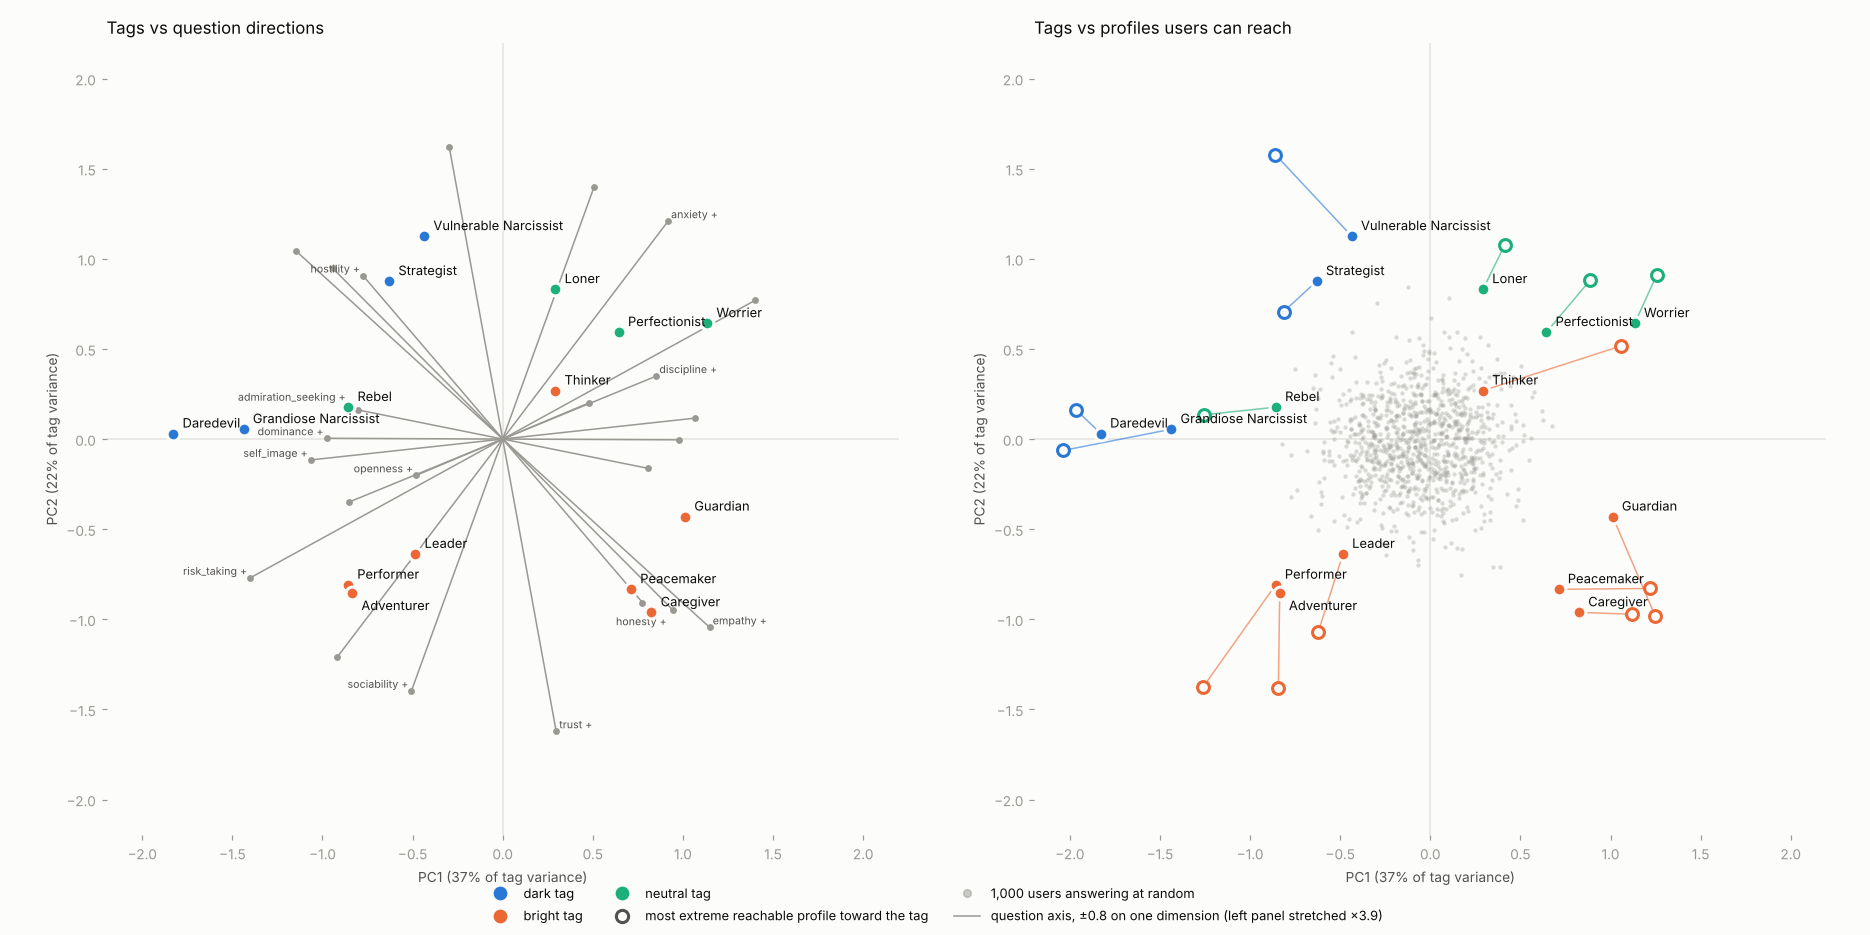
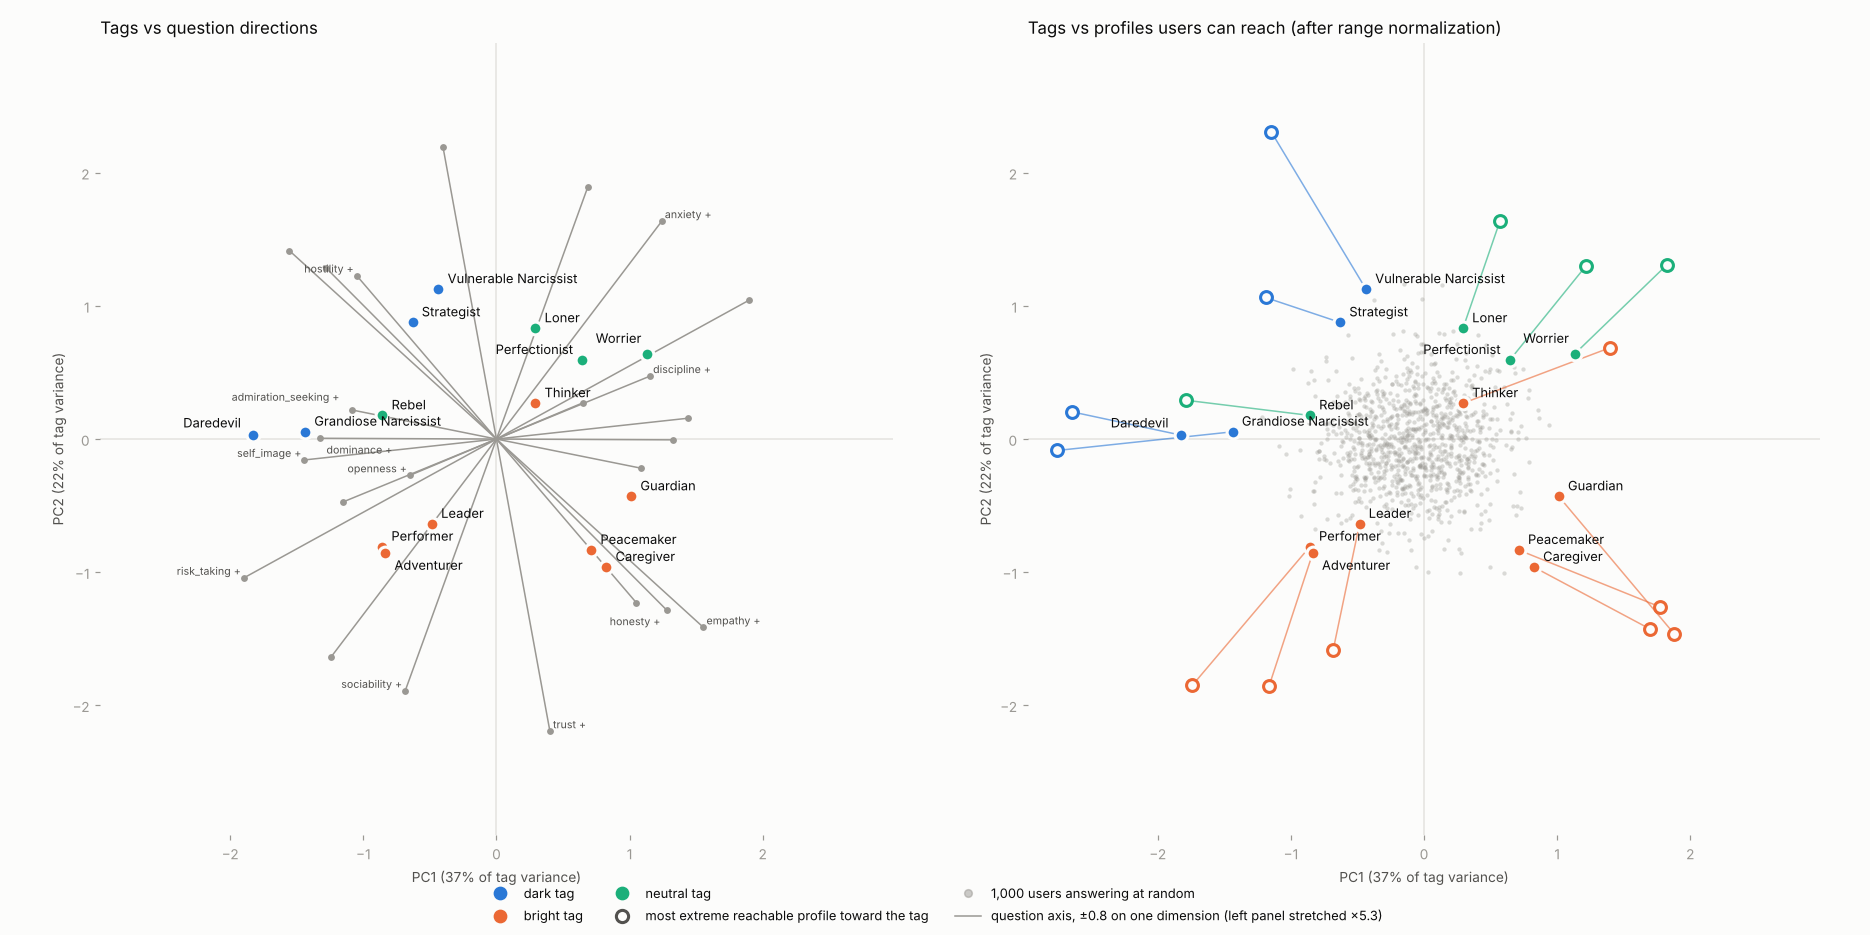
Add range normalization (step 4b) and rerun PCA charts
Per-dimension rescaling so every dimension's reachable range is [-1, 1];
shared scoring module; before/after PCA charts on a common scale.

Claude-Session: https://claude.ai/code/session_01QfwpYXCUSYzmxvPqaQ5vyc

diff --git a/scripts/pca_chart.py b/scripts/pca_chart.py
@@ -2,11 +2,11 @@
 
 PCA axes are fitted on the 15 tag vectors, uncentered so the origin stays the
 "typical person". Question vectors and simulated user profiles are projected
-onto the same axes. Scoring follows docs/MATH.md (k0 = 1).
+onto the same axes. Scoring follows docs/MATH.md, including step 4b (range
+normalization) unless --raw is given.
 
-Usage: python3 scripts/pca_chart.py [output.png]
+Usage: python3 scripts/pca_chart.py [--raw] [output.png]
 """
-import json
 import sys
 from pathlib import Path
 
@@ -16,34 +16,16 @@ matplotlib.use("Agg")
 import matplotlib.pyplot as plt
 import numpy as np
 
-ROOT = Path(__file__).resolve().parent.parent
-out = Path(sys.argv[1]) if len(sys.argv) > 1 else ROOT / "docs" / "pca.png"
-K0 = 1.0
+from scoring import ROOT, Bank
 
-model = json.loads((ROOT / "data" / "model.json").read_text())
-qs = json.loads((ROOT / "data" / "questions.json").read_text())["questions"]
-dims = [d["id"] for d in model["dimensions"]]
+raw = "--raw" in sys.argv
+args = [a for a in sys.argv[1:] if a != "--raw"]
+out = Path(args[0]) if args else ROOT / "docs" / ("pca_raw.png" if raw else "pca.png")
+
+bank = Bank()
+dims, tags, T = bank.dims, bank.tags, bank.T
 D = len(dims)
-tags = model["tags"]
-T = np.array([[t["vector"].get(d, 0.0) for d in dims] for t in tags])
-Wq = np.array([[q["loadings"].get(d, 0.0) for d in dims] for q in qs])
-mu = np.array([q["baseline"] for q in qs])
-
-
-def profile(r):
-    """User profile u for answers r (one 1-5 answer per question), per docs/MATH.md."""
-    a = (r - mu) / np.maximum(mu - 1, 5 - mu)
-    c = 0.5 + 0.5 * np.abs(a)
-    S = a @ Wq
-    W = c @ np.abs(Wq)
-    return S / (W + K0)
-
-
-def best_answers(t):
-    """Answer every question to push the profile as far toward tag t as possible."""
-    push = Wq @ t
-    return np.where(push > 0, 5.0, np.where(push < 0, 1.0, np.round(mu)))
-
+score = bank.profile if raw else bank.score
 
 # PCA on tags, uncentered (origin = typical person).
 _, s, Vt = np.linalg.svd(T, full_matrices=False)
@@ -51,10 +33,11 @@ P = Vt[:2].T
 explained = s[:2] ** 2 / (s ** 2).sum()
 
 tag_xy = T @ P
-reach = np.array([profile(best_answers(t)) for t in T])
+reach = np.array([score(bank.extreme_answers(t)) for t in T])
 reach_xy = reach @ P
 rng = np.random.default_rng(0)
-random_xy = np.array([profile(rng.integers(1, 6, len(qs)).astype(float)) for _ in range(1000)]) @ P
+random_u = np.array([score(rng.integers(1, 6, len(bank.questions)).astype(float)) for _ in range(1000)])
+random_xy = random_u @ P
 axis_xy = 0.8 * np.eye(D) @ P  # every question is +-0.8 on one dimension
 
 # Reference palette, light mode (dataviz skill): first three categorical slots.
@@ -65,7 +48,10 @@ cats = [t["category"] for t in tags]
 plt.rcParams.update({"font.size": 9, "axes.edgecolor": GRID, "axes.labelcolor": INK2,
                      "xtick.color": MUTED, "ytick.color": MUTED, "text.color": INK})
 fig, axes = plt.subplots(1, 2, figsize=(17, 8.5), facecolor=SURFACE)
-lim = 1.08 * max(np.abs(tag_xy).max(), np.abs(reach_xy).max())
+# Same scale for raw and normalized charts so they can be compared side by side.
+reach_both = np.array([f(bank.extreme_answers(t)) for f in (bank.profile, bank.score) for t in T]) @ P
+lim = 1.08 * max(np.abs(tag_xy).max(), np.abs(reach_both).max())
+mode = "raw scores" if raw else "after range normalization"
 
 
 def frame(ax, title):
@@ -82,14 +68,15 @@ def frame(ax, title):
         sp.set_visible(False)
 
 
-LABEL_OFFSET = {"adventurer": (6, -11)}
+LABEL_OFFSET = {"adventurer": (6, -11), "psychopathic": (-8, 5), "perfectionist": (-6, 4), "worrier": (-4, 7)}
 
 
 def draw_tags(ax):
     for (x, y), t, c in zip(tag_xy, tags, cats):
         ax.scatter(x, y, s=70, color=CAT[c], edgecolor=SURFACE, linewidth=2, zorder=4)
-        ax.annotate(t["name"].split(" (")[0], (x, y), xytext=LABEL_OFFSET.get(t["id"], (6, 4)), textcoords="offset points",
-                    color=INK, fontsize=8.5, zorder=5)
+        off = LABEL_OFFSET.get(t["id"], (6, 4))
+        ax.annotate(t["name"].split(" (")[0], (x, y), xytext=off, textcoords="offset points",
+                    ha="left" if off[0] >= 0 else "right", color=INK, fontsize=8.5, zorder=5)
 
 
 # Left: question axes (biplot) + tags.
@@ -99,14 +86,14 @@ AXIS_SCALE = 0.75 * lim / np.linalg.norm(axis_xy, axis=1).max()  # biplot conven
 for d, (x, y) in enumerate(axis_xy * AXIS_SCALE):
     ax.plot([-x, x], [-y, y], color=MUTED, lw=1, zorder=1)
     ax.scatter([x, -x], [y, -y], s=12, color=MUTED, zorder=2)
-    off = {"honesty": (-4, -10), "admiration_seeking": (-8, 6)}.get(dims[d], (2 if x >= 0 else -2, 2))
+    off = {"honesty": (-4, -10), "admiration_seeking": (-8, 6), "dominance": (4, -10)}.get(dims[d], (2 if x >= 0 else -2, 2))
     ax.annotate(dims[d] + " +", (x, y), xytext=off, textcoords="offset points",
                 ha="left" if off[0] >= 0 else "right", color=INK2, fontsize=7)
 draw_tags(ax)
 
 # Right: what users can actually reach.
 ax = axes[1]
-frame(ax, "Tags vs profiles users can reach")
+frame(ax, f"Tags vs profiles users can reach ({mode})")
 ax.scatter(random_xy[:, 0], random_xy[:, 1], s=8, color=MUTED, alpha=0.35, linewidth=0, zorder=1)
 for (tx, ty), (rx, ry), c in zip(tag_xy, reach_xy, cats):
     ax.plot([tx, rx], [ty, ry], color=CAT[c], lw=1, alpha=0.6, zorder=2)
@@ -119,23 +106,22 @@ handles += [plt.Line2D([], [], marker="o", ls="", markerfacecolor=SURFACE, marke
                        markeredgewidth=2, markersize=8, label="most extreme reachable profile toward the tag"),
             plt.Line2D([], [], marker="o", ls="", color=MUTED, alpha=0.5, markersize=5,
                        label="1,000 users answering at random"),
-            plt.Line2D([], [], color=MUTED, lw=1, label=f"question axis, ±0.8 on one dimension (left panel stretched ×{AXIS_SCALE:.1f})")]
+            plt.Line2D([], [], color=MUTED, lw=1,
+                       label=f"question axis, ±0.8 on one dimension (left panel stretched ×{AXIS_SCALE:.1f})")]
 fig.legend(handles=handles, loc="lower center", ncol=3, frameon=False, fontsize=8.5)
 fig.tight_layout(rect=(0, 0.07, 1, 0.97))
 fig.savefig(out, dpi=110, facecolor=SURFACE)
-print(f"saved {out}")
+print(f"saved {out} ({mode})")
 print(f"explained (uncentered) PC1={explained[0]:.2f} PC2={explained[1]:.2f} sum={explained.sum():.2f}")
 
-print("\nper tag: |tag|, |best reachable|, cosine(best reachable, tag), share of tag reached along its direction")
+print("\nper tag: cosine(best reachable profile, tag), share of the tag reached along its direction")
 for t, tv, rv in zip(tags, T, reach):
     cos = rv @ tv / np.linalg.norm(rv) / np.linalg.norm(tv)
-    along = (rv @ tv) / (tv @ tv)
-    print(f"  {t['name']:30s} |t|={np.linalg.norm(tv):.2f} |u*|={np.linalg.norm(rv):.2f} cos={cos:.2f} reached={along:.0%}")
+    print(f"  {t['name']:30s} cos={cos:.2f} reached={(rv @ tv) / (tv @ tv):.0%}")
 
-hi = np.array([profile(np.where(Wq[:, d] > 0, 5.0, np.where(Wq[:, d] < 0, 1.0, np.round(mu))))[d] for d in range(D)])
-lo = np.array([profile(np.where(Wq[:, d] > 0, 1.0, np.where(Wq[:, d] < 0, 5.0, np.round(mu))))[d] for d in range(D)])
-tmax, tmin = T.max(axis=0), T.min(axis=0)
-print("\nper dimension: reachable range of u_d vs range used by tags")
+lo = np.array([score(bank.extreme_answers(-e))[d] for d, e in enumerate(np.eye(D))])
+hi = np.array([score(bank.extreme_answers(e))[d] for d, e in enumerate(np.eye(D))])
+print("\nper dimension: reachable range of the score vs range used by tags")
 for d in range(D):
-    print(f"  {dims[d]:18s} reachable [{lo[d]:+.2f}, {hi[d]:+.2f}]   tags use [{tmin[d]:+.1f}, {tmax[d]:+.1f}]")
-print(f"\nrandom users: mean |u| = {np.linalg.norm(random_xy, axis=1).mean():.2f} in the PCA plane")
+    print(f"  {dims[d]:18s} reachable [{lo[d]:+.2f}, {hi[d]:+.2f}]   tags use [{T[:, d].min():+.1f}, {T[:, d].max():+.1f}]")
+print(f"\nrandom users: mean |u| over 12 dims = {np.linalg.norm(random_u, axis=1).mean():.2f}")

diff --git a/scripts/scoring.py b/scripts/scoring.py
@@ -1,0 +1,48 @@
+"""Scoring formulas from docs/MATH.md, vectorized over the whole question bank."""
+import json
+from pathlib import Path
+
+import numpy as np
+
+ROOT = Path(__file__).resolve().parent.parent
+K0 = 1.0
+
+
+class Bank:
+    def __init__(self, k0=K0):
+        model = json.loads((ROOT / "data" / "model.json").read_text())
+        qs = json.loads((ROOT / "data" / "questions.json").read_text())["questions"]
+        self.k0 = k0
+        self.dims = [d["id"] for d in model["dimensions"]]
+        self.tags = model["tags"]
+        self.T = np.array([[t["vector"].get(d, 0.0) for d in self.dims] for t in self.tags])
+        self.questions = qs
+        self.W = np.array([[q["loadings"].get(d, 0.0) for d in self.dims] for q in qs])
+        self.mu = np.array([q["baseline"] for q in qs])
+        self.lo, self.hi = self.reachable_range()
+
+    def profile(self, r):
+        """Raw profile u (steps 1-4): r holds one 1-5 answer per question."""
+        a = (r - self.mu) / np.maximum(self.mu - 1, 5 - self.mu)
+        c = 0.5 + 0.5 * np.abs(a)
+        return (a @ self.W) / (c @ np.abs(self.W) + self.k0)
+
+    def extreme_answers(self, direction):
+        """Answer each question at the extreme that pushes the profile along `direction`."""
+        push = self.W @ direction
+        return np.where(push > 0, 5.0, np.where(push < 0, 1.0, np.round(self.mu)))
+
+    def reachable_range(self):
+        """Per dimension, the lowest and highest u_d any answer pattern can produce.
+        Extreme answers are optimal: raising |a_i| adds |w| to S but only |w|/2 to W."""
+        eye = np.eye(len(self.dims))
+        hi = np.array([self.profile(self.extreme_answers(e))[d] for d, e in enumerate(eye)])
+        lo = np.array([self.profile(self.extreme_answers(-e))[d] for d, e in enumerate(eye)])
+        return lo, hi
+
+    def normalize(self, u):
+        """Step 4b: rescale each dimension so its reachable range becomes [-1, 1]."""
+        return np.where(u >= 0, u / self.hi, u / -self.lo)
+
+    def score(self, r):
+        return self.normalize(self.profile(r))

diff --git a/docs/MATH.md b/docs/MATH.md
@@ -31,9 +31,20 @@ $$u_d = \frac{S_d}{W_d + k_0} = \frac{\sum_i a_i\,w_{id}}{\sum_i c_i\,|w_{id}| +
 With $c_i = 1$ and $k_0=0$ this is exactly a weighted mean: weights $|w_{id}|$, values $\operatorname{sign}(w_{id})\,a_i$.
 $k_0$ shrinks scores toward 0 when evidence is thin. $|a_i| \le c_i$, so $u_d \in [-1,1]$.
 
+## 4b. Range normalization
+
+Baselines make some dimensions lopsided. For example, most people already agree with "I sympathize with others' feelings",
+so even "strongly agree" barely moves `empathy` up. Let $hi_d$ and $lo_d$ be the highest and lowest $u_d$ any answer pattern
+can produce: every question on $d$ answered at the extreme that pushes $d$ up, or down. Extreme answers are optimal,
+since raising $|a_i|$ adds $|w_{id}|$ to $S_d$ but only $|w_{id}|/2$ to $W_d$. Then
+
+$$\tilde u_d = \begin{cases} u_d / hi_d & u_d \ge 0 \\ u_d / |lo_d| & u_d < 0 \end{cases} \in [-1, 1]$$
+
+0 still means "typical person". Matching uses $\tilde{\mathbf u}$. The code is `scripts/scoring.py` (`Bank.score`).
+
 ## 5. Matching
 
-Direction: $\cos(\mathbf u,\mathbf t_k) = \dfrac{\mathbf u^\top \mathbf t_k}{\lVert\mathbf u\rVert\,\lVert\mathbf t_k\rVert}$
+Direction: $\cos(\tilde{\mathbf u},\mathbf t_k)$ (computed on the normalized profile)
 
 Strength: $s_k = \mathbf u^\top \hat{\mathbf t}_k$, with $\hat{\mathbf t}_k = \mathbf t_k / \lVert\mathbf t_k\rVert$
 
